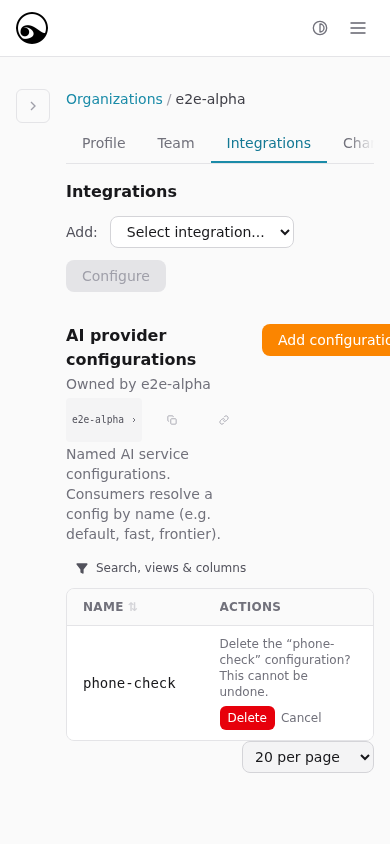
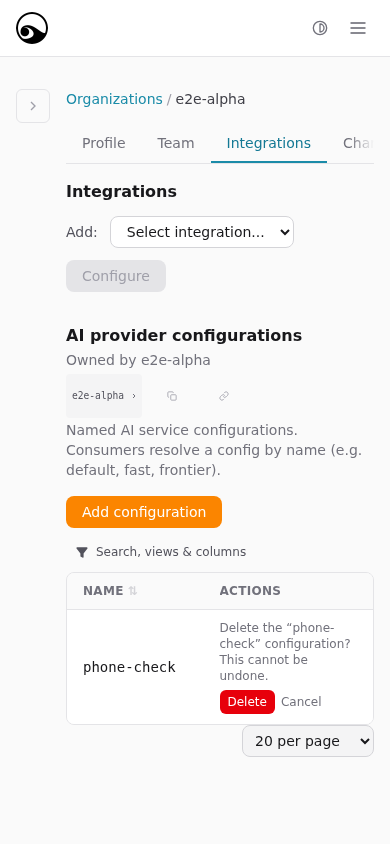
fix: keep the AI config add action visible on touch phones
A coarse-pointer owner chip made the adjacent Add control overflow at 390px. The browser pin fails before the responsive header wrap. Capture themes through the real menu so the shell and controls agree.

Worker: Glen (portal-engineer) <hrn:worker:hadronmemory.com:hadron-dev-team:glen>

diff --git a/src/lib/components/AiServiceConfigManager.svelte b/src/lib/components/AiServiceConfigManager.svelte
@@ -880,8 +880,8 @@
       </div>
     {/if}
   </div>
-  <div class="mb-3 flex items-start justify-between gap-4">
-    <div>
+  <div class="mb-3 flex flex-col items-start justify-between gap-4 sm:flex-row">
+    <div class="min-w-0">
       <h2 class="font-semibold text-zinc-900 dark:text-white">{s.heading()}</h2>
       {#if ownerLabel}
         <p class="mt-0.5 text-sm text-zinc-500 dark:text-zinc-400">{s.ownerCaption(ownerLabel)}</p>
